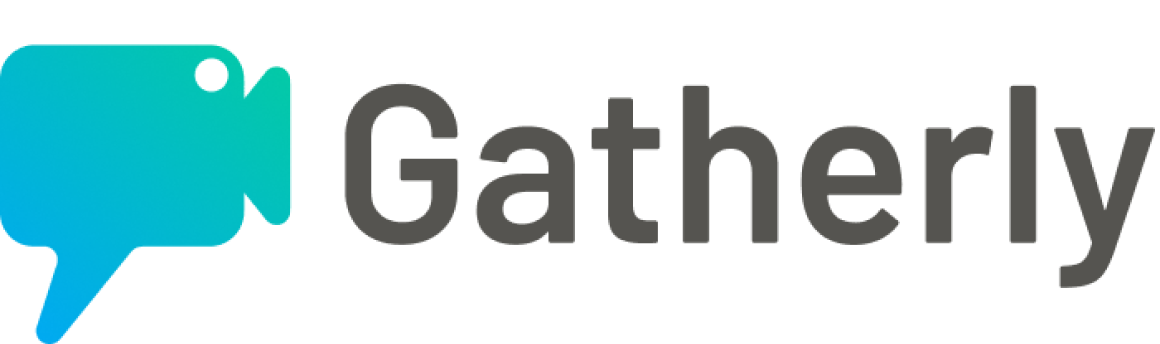
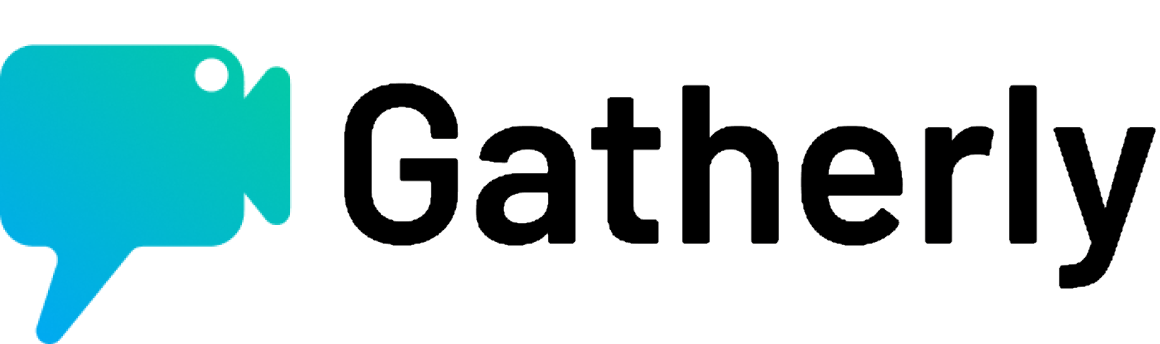
added graphics, particles

Changed region(s): [[0.2793, 0.2326, 1.0, 0.843]]

diff --git a/client/src/Pages/Home/index.js b/client/src/Pages/Home/index.js
@@ -9,7 +9,11 @@ import Faq from "../../Components/Faq";
 
 import logo from "../../Assets/Images/Branding/logo.svg";
 import star from "../../Assets/Images/Other/star2--export.svg";
-import map from "../../Assets/Images/Other/map.png";
+
+import telescope from "../../Assets/Images/Other/telescope.png";
+import moon from "../../Assets/Images/Other/moon.png";
+import waves from "../../Assets/Images/Other/waves.svg";
+// import map from "../../Assets/Images/Other/map.png";
 
 //past sponsor images
 import gcloud from "../../Assets/Images/PastSponsors/gc.png";
@@ -17,7 +21,7 @@ import accenture from "../../Assets/Images/PastSponsors/accenture.png";
 import createx from "../../Assets/Images/PastSponsors/createx.png";
 import wolfram from "../../Assets/Images/PastSponsors/wolfram.png";
 import ironmountain from "../../Assets/Images/PastSponsors/ironmountain.png";
-import gatherly from "../../Assets/Images/PastSponsors/gatherly.png";
+import gatherly from "../../Assets/Images/PastSponsors/gatherly2.svg";
 import Footer from "../../Components/Footer";
 
 const Home = (params) => {
@@ -69,13 +73,22 @@ const Home = (params) => {
                         </div>
                     </div>
                 </div>
-                <a className="continue-reading continue-reading-hero" href="#about">
+                <a
+                    className="continue-reading continue-reading-hero"
+                    href="#about"
+                >
                     <span className="text">continue</span>
                     <span className="arrow">↓</span>
                 </a>
             </Section>
             <Section id="about">
                 <div className="about-flex">
+                    <img
+                        className="telescope"
+                        src={telescope}
+                        alt="telescope"
+                    />
+                    <img className="moon" src={moon} alt="moon" />
                     <h2 className="major">About</h2>
                     <p className="mini">
                         Inspired by the famous painting,{" "}
@@ -99,6 +112,12 @@ const Home = (params) => {
             </Section>
             <Section id="whatis">
                 <div className="whatis-flex">
+                    <img className="star star-a" src={star} alt="star" />
+                    <img className="star star-b" src={star} alt="star" />
+                    <img className="star star-c" src={star} alt="star" />
+                    <img className="star star-d" src={star} alt="star" />
+                    <img className="star star-e" src={star} alt="star" />
+                    <img className="star star-f" src={star} alt="star" />
                     <h2 className="major">What is Hacklytics?</h2>
                     <p className="mini">
                         Hacklytics is a 36-hour data science-focused hackathon
@@ -300,6 +319,7 @@ const Home = (params) => {
                 </div>
             </Section> */}
             <Section id="pastsponsors">
+                <img className="waves" src={waves} />
                 <div className="pastsponsors-flex">
                     <h1 className="major">Past Sponsors</h1>
                     <div className="splash"></div>

diff --git a/client/src/Pages/Home/Home.css b/client/src/Pages/Home/Home.css
@@ -418,6 +418,24 @@
   line-height: 1.3em;
 }
 
+#about .about-flex > .telescope {
+  display: block;
+  position: absolute;
+  width: 16em;
+  height: auto;
+  bottom: -6em;
+  left: -13em;
+}
+
+#about .about-flex > .moon {
+  display: block;
+  position: absolute;
+  width: 16em;
+  height: auto;
+  top: -6em;
+  right: -13em;
+}
+
 #whatis,
 #whatis2 {
   margin: 100px 0;
@@ -484,6 +502,67 @@
   font-weight: 400;
   font-family: "Outfit";
   line-height: 1.3em;
+}
+
+#whatis .whatis-flex > .star,
+#whatis2 .whatis-flex > .star {
+  display: block;
+  position: absolute;
+  width: 3em;
+}
+
+#whatis .whatis-flex > .star-a,
+#whatis2 .whatis-flex > .star-a {
+  width: 5.5em;
+  top: 0;
+  left: -2em;
+  -webkit-animation: StarRotateB 5s infinite;
+          animation: StarRotateB 5s infinite;
+}
+
+#whatis .whatis-flex > .star-b,
+#whatis2 .whatis-flex > .star-b {
+  width: 2.7em;
+  top: 3.5em;
+  left: 3em;
+  -webkit-animation: StarRotateB 5s infinite;
+          animation: StarRotateB 5s infinite;
+}
+
+#whatis .whatis-flex > .star-c,
+#whatis2 .whatis-flex > .star-c {
+  width: 2.7em;
+  top: 6em;
+  left: 1em;
+  -webkit-animation: StarRotateB 5s infinite;
+          animation: StarRotateB 5s infinite;
+}
+
+#whatis .whatis-flex > .star-d,
+#whatis2 .whatis-flex > .star-d {
+  width: 6em;
+  bottom: -0.5em;
+  right: -0.5em;
+  -webkit-animation: StarRotateA 5s infinite;
+          animation: StarRotateA 5s infinite;
+}
+
+#whatis .whatis-flex > .star-e,
+#whatis2 .whatis-flex > .star-e {
+  width: 2.7em;
+  bottom: -1.2em;
+  right: 4.3em;
+  -webkit-animation: StarRotateA 5s infinite;
+          animation: StarRotateA 5s infinite;
+}
+
+#whatis .whatis-flex > .star-f,
+#whatis2 .whatis-flex > .star-f {
+  width: 2.5em;
+  bottom: -2.5em;
+  right: -1em;
+  -webkit-animation: StarRotateA 5s infinite;
+          animation: StarRotateA 5s infinite;
 }
 
 #whenwhere .whenwhere-flex {
@@ -864,7 +943,7 @@
 }
 
 #pastsponsors .pastsponsors-flex > .sponsors-flex > .sponsor-row-c {
-  height: 140px;
+  height: 130px;
 }
 
 #pastsponsors .pastsponsors-flex > .sponsor-us-button {
@@ -899,6 +978,15 @@
 #pastsponsors .pastsponsors-flex > .sponsor-us-button:active {
   -webkit-transform: translateY(20px) scale(0.95);
           transform: translateY(20px) scale(0.95);
+}
+
+#pastsponsors .waves {
+  display: block;
+  position: absolute;
+  z-index: -1;
+  bottom: 0;
+  left: calc(50% - 50vw);
+  width: 100vw;
 }
 
 .continue-reading {
@@ -1012,6 +1100,14 @@
   #about .about-flex {
     padding: 100px 0;
   }
+  #about .about-flex > .telescope {
+    left: -17em;
+    bottom: -8em;
+  }
+  #about .about-flex > .moon {
+    right: -16em;
+    top: 4em;
+  }
   #whatis .whatis-flex,
   #whatis2 .whatis-flex {
     width: 90%;
@@ -1030,7 +1126,7 @@
     height: 60px;
   }
   #pastsponsors .pastsponsors-flex > .sponsors-flex > .sponsor-row-c {
-    height: 60px;
+    height: 50px;
   }
   #footer {
     font-size: 12px;

diff --git a/client/src/Pages/Home/Home.scss b/client/src/Pages/Home/Home.scss
@@ -29,7 +29,6 @@
         height: fit-content;
         padding: 0px 50px;
         padding-top: 5em;
-        
 
         flex-direction: row;
         justify-content: center;
@@ -270,6 +269,24 @@
             font-family: "Outfit";
             line-height: 1.3em;
         }
+
+        > .telescope {
+            display: block;
+            position: absolute;
+            width: 16em;
+            height: auto;
+            bottom: -6em;
+            left: -13em;
+        }
+
+        > .moon {
+            display: block;
+            position: absolute;
+            width: 16em;
+            height: auto;
+            top: -6em;
+            right: -13em;
+        }
     }
 }
 
@@ -323,6 +340,49 @@
             font-weight: 400;
             font-family: "Outfit";
             line-height: 1.3em;
+        }
+
+        > .star {
+            display: block;
+            position: absolute;
+            width: 3em;
+
+        }
+        > .star-a {
+            width: 5.5em;
+            top: 0;
+            left: -2em;
+            animation: StarRotateB 5s infinite;
+        }
+        > .star-b {
+            width: 2.7em;
+            top: 3.5em;
+            left: 3em;
+            animation: StarRotateB 5s infinite;
+        }
+        > .star-c {
+            width: 2.7em;
+            top: 6em;
+            left: 1em;
+            animation: StarRotateB 5s infinite;
+        }
+        > .star-d {
+            width: 6em;
+            bottom: -0.5em;
+            right: -0.5em;
+            animation: StarRotateA 5s infinite;
+        }
+        > .star-e {
+            width: 2.7em;
+            bottom: -1.2em;
+            right: 4.3em;
+            animation: StarRotateA 5s infinite;
+        }
+        > .star-f {
+            width: 2.5em;
+            bottom: -2.5em;
+            right: -1em;
+            animation: StarRotateA 5s infinite;
         }
     }
 }
@@ -617,7 +677,7 @@
                 height: 140px;
             }
             > .sponsor-row-c {
-                height: 140px;
+                height: 130px;
             }
         }
         > .sponsor-us-button {
@@ -651,6 +711,14 @@
                 transform: translateY(20px) scale(0.95);
             }
         }
+    }
+    .waves {
+        display: block;
+        position: absolute;
+        z-index: -1;
+        bottom: 0;
+        left: calc(50% - 50vw);
+        width: 100vw;
     }
 }
 
@@ -751,6 +819,14 @@
     #about {
         .about-flex {
             padding: 100px 0;
+            > .telescope {
+                left: -17em;
+                bottom: -8em;
+            }
+            > .moon {
+                right: -16em;
+                top: 4em;
+            }
         }
     }
 
@@ -783,7 +859,7 @@
                     height: 60px;
                 }
                 > .sponsor-row-c {
-                    height: 60px;
+                    height: 50px;
                 }
             }
         }

diff --git a/client/src/Components/Background/Background.scss b/client/src/Components/Background/Background.scss
@@ -4,7 +4,7 @@
     top: 0;
     left: 0;
     z-index: 1;
-    border: 2px solid red;
+    // border: 2px solid red;
     height: 100%;
     width: 100%;
     canvas {

diff --git a/client/src/Components/Background/Background.css b/client/src/Components/Background/Background.css
@@ -4,7 +4,6 @@
   top: 0;
   left: 0;
   z-index: 1;
-  border: 2px solid red;
   height: 100%;
   width: 100%;
 }
